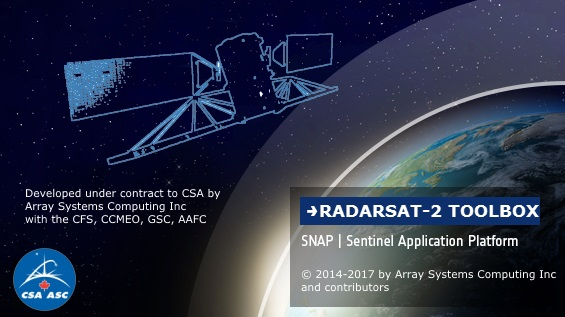
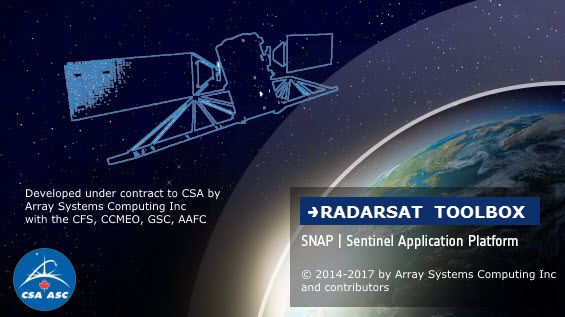
rename Radarsat-2 Toolbox to Radarsat Toolbox

Changed region(s): [[0.5416, 0.6246, 0.9628, 0.7098], [0.0602, 0.8801, 0.0903, 0.9369]]

diff --git a/rstb/rstb-io/src/main/java/org/csa/rstb/io/radarsat1/RadarsatConstants.java b/rstb/rstb-io/src/main/java/org/csa/rstb/io/radarsat1/RadarsatConstants.java
@@ -22,9 +22,9 @@ import org.esa.s1tbx.io.ceos.CEOSConstants;
  */
 public class RadarsatConstants implements CEOSConstants {
 
-    private final String[] FORMAT_NAMES = new String[]{"RADARSAT-1 CEOS"};
+    private final String[] FORMAT_NAMES = new String[]{"RADARSAT-1"};
     private final static String[] FORMAT_FILE_EXTENSIONS = new String[]{""};
-    private static final String PLUGIN_DESCRIPTION = "RADARSAT-1 CEOS Products";      /*I18N*/
+    private static final String PLUGIN_DESCRIPTION = "RADARSAT-1 Products";      /*I18N*/
 
     private final static String[] VOLUME_FILE_PREFIX = {"VDF", "VOL"};
     private static final String[] LEADER_FILE_PREFIX = {"LEA", "SARL"};

diff --git a/rstb/rstb-kit/src/main/java/org/csa/rstb/about/RstbAboutBox.java b/rstb/rstb-kit/src/main/java/org/csa/rstb/about/RstbAboutBox.java
@@ -47,7 +47,7 @@ public class RstbAboutBox extends JPanel {
         final JPanel panel = new JPanel();
         panel.setLayout(new BoxLayout(panel, BoxLayout.LINE_AXIS));
         final ModuleInfo moduleInfo = Modules.getDefault().ownerOf(RstbAboutBox.class);
-        panel.add(new JLabel("<html><b>Radarsat-2 Toolbox (RSTB) version " + moduleInfo.getImplementationVersion() + "</b>",
+        panel.add(new JLabel("<html><b>Radarsat Toolbox (RSTB) version " + moduleInfo.getImplementationVersion() + "</b>",
                 SwingConstants.RIGHT));
         final URI releaseNotesURI = getReleaseNotesURI();
         if (releaseNotesURI != null) {

diff --git a/rstb/rstb-io/src/test/java/org/csa/rstb/io/radarsat2/TestRadarsat2ProductReader.java b/rstb/rstb-io/src/test/java/org/csa/rstb/io/radarsat2/TestRadarsat2ProductReader.java
@@ -13,7 +13,7 @@
  * You should have received a copy of the GNU General Public License along
  * with this program; if not, see http://www.gnu.org/licenses/
  */
-package org.esa.s1tbx.io.radarsat2;
+package org.csa.rstb.io.radarsat2;
 
 import org.esa.s1tbx.commons.test.ReaderTest;
 import org.esa.s1tbx.commons.test.S1TBXTests;
